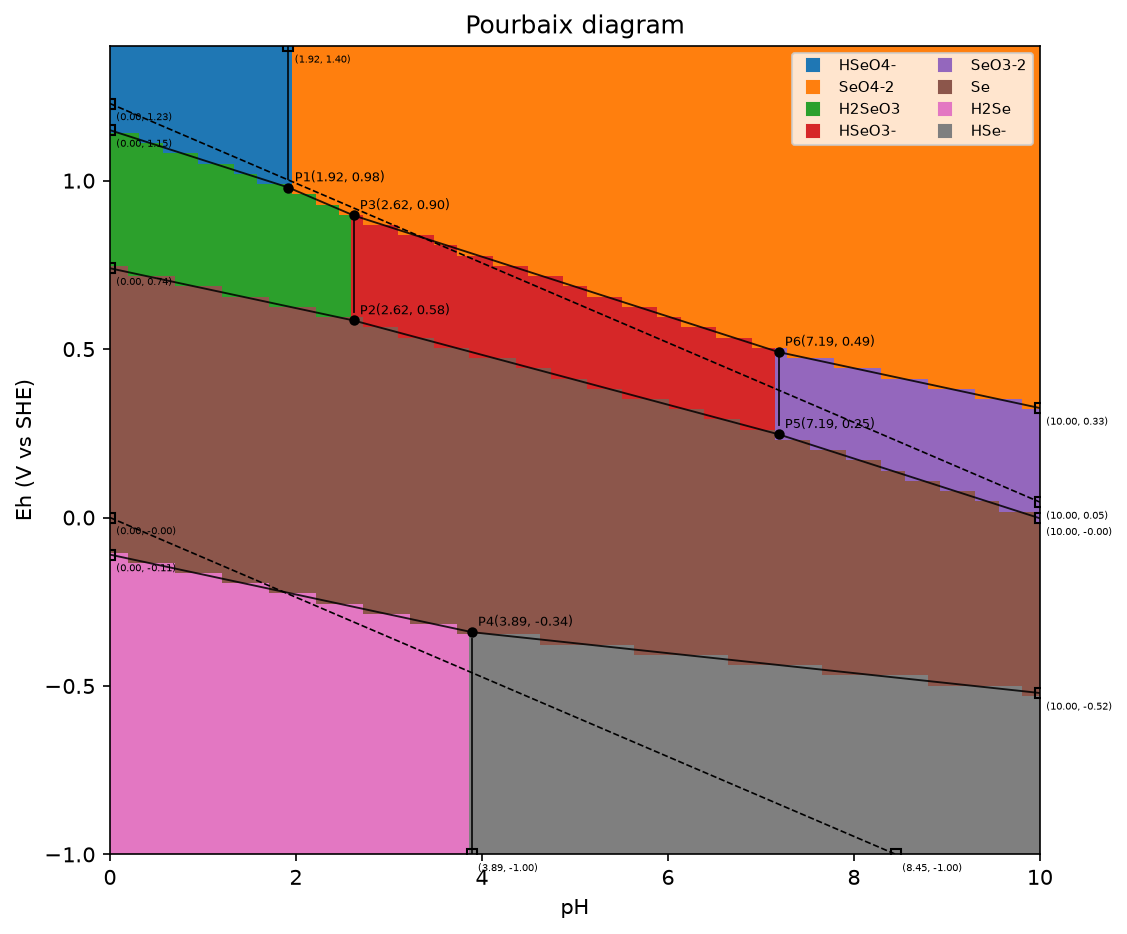
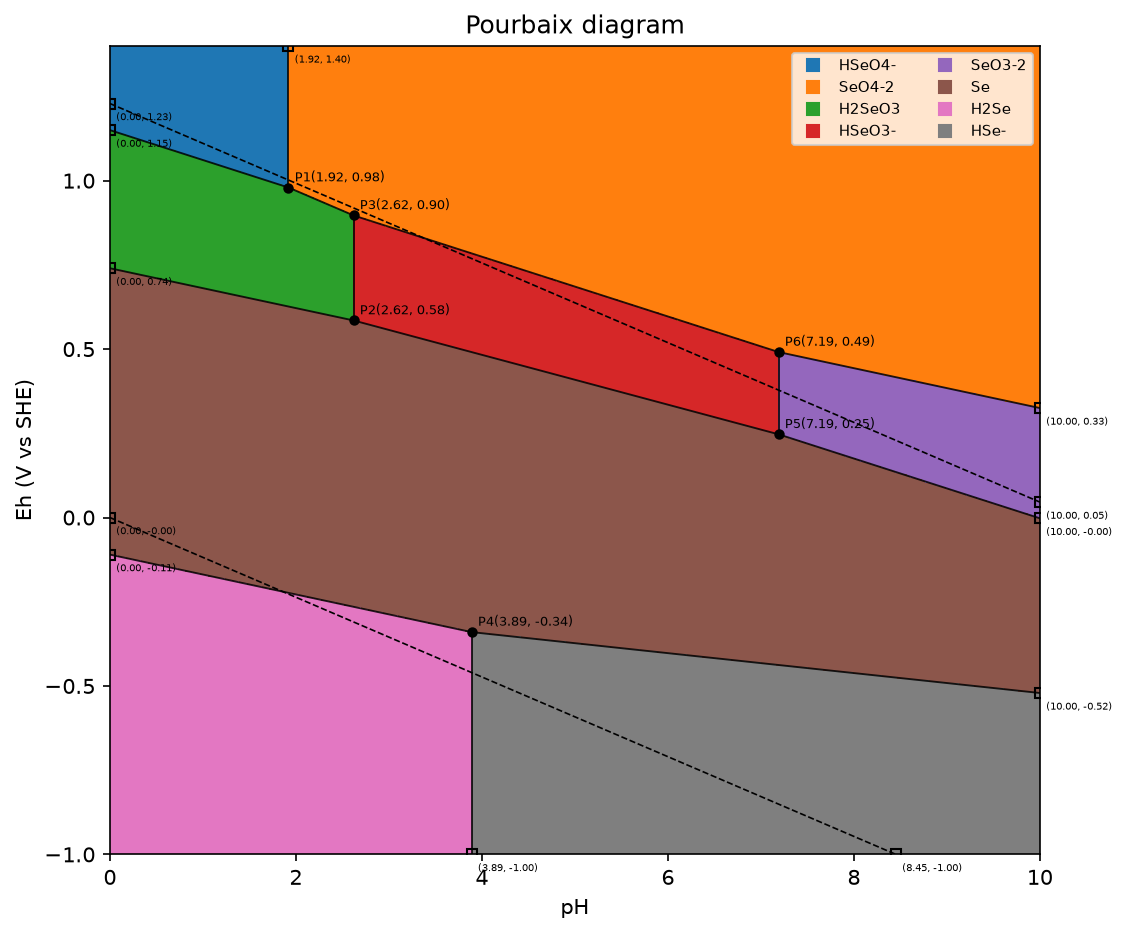
Regenerate Selenium Pourbaix README figures at 500x500 and reorder the plot styles.

diff --git a/docs/generate_readme_figures.py b/docs/generate_readme_figures.py
@@ -72,10 +72,10 @@ def write_pourbaix():
         selenium_environment(),
         pH_min=0.0,
         pH_max=10.0,
-        pH_steps=80,
+        pH_steps=500,
         Eh_min=-1.0,
         Eh_max=1.4,
-        Eh_steps=80,
+        Eh_steps=500,
         speciation_method="model",
     ).run()
     diagram.plot(
@@ -84,22 +84,22 @@ def write_pourbaix():
         show=False,
     )
     diagram.plot(
-        plot_style="labeled",
-        save=str(IMAGES / "selenium_labeled.png"),
-        show=False,
-    )
-    diagram.plot_boundaries(
-        save=str(IMAGES / "selenium_boundaries.png"),
+        plot_style="filled",
+        show_frame_intersections=True,
+        save=str(IMAGES / "selenium_frame.png"),
         show=False,
     )
     diagram.plot_predominance(
         save=str(IMAGES / "selenium_predominance.png"),
         show=False,
     )
+    diagram.plot_boundaries(
+        save=str(IMAGES / "selenium_boundaries.png"),
+        show=False,
+    )
     diagram.plot(
-        plot_style="filled",
-        show_frame_intersections=True,
-        save=str(IMAGES / "selenium_frame.png"),
+        plot_style="labeled",
+        save=str(IMAGES / "selenium_labeled.png"),
         show=False,
     )
     diagram.plot(

diff --git a/README.md b/README.md
@@ -46,20 +46,20 @@ diagram = Pourbaix(
     pH_max=10.0,
     Eh_min=-1.0,
     Eh_max=1.4,
-    pH_steps=80,
-    Eh_steps=80,
+    pH_steps=500,
+    Eh_steps=500,
 ).run()
 
 diagram.plot(plot_style="filled", save="selenium_filled.png", show=False)
-diagram.plot(plot_style="labeled", save="selenium_labeled.png", show=False)
-diagram.plot_boundaries(save="selenium_boundaries.png", show=False)
-diagram.plot_predominance(save="selenium_predominance.png", show=False)
 diagram.plot(
     plot_style="filled",
     show_frame_intersections=True,
     save="selenium_frame.png",
     show=False,
 )
+diagram.plot_predominance(save="selenium_predominance.png", show=False)
+diagram.plot_boundaries(save="selenium_boundaries.png", show=False)
+diagram.plot(plot_style="labeled", save="selenium_labeled.png", show=False)
 diagram.plot(
     plot_style="labeled",
     boundary_mode="all",
@@ -68,18 +68,18 @@ diagram.plot(
 )
 ```
 
-**Filled** (default) colors each predominance region. **Labeled** draws boundaries on white and writes the dominant species. **Boundaries** is the line-only view with a couple legend. **Predominance** is the fill without junction markers. **Frame intersections** marks where those lines meet the pH/Eh window. **All boundaries** (`boundary_mode="all"`) draws every analytic line, not only borders between neighboring regions.
+**Filled** (default) colors each predominance region. **Frame intersections** marks where dominant-region boundaries meet the pH/Eh window. **Predominance** is the fill without junction markers. **Boundaries** is the line-only view with a couple legend. **Labeled** draws boundaries on white and writes the dominant species. **All boundaries** (`boundary_mode="all"`) draws every analytic line, not only borders between neighboring regions.
 
 <p align="center">
   <img src="docs/images/selenium_filled.png" width="48%" alt="Selenium Pourbaix, filled" />
-  <img src="docs/images/selenium_labeled.png" width="48%" alt="Selenium Pourbaix, labeled" />
-</p>
-<p align="center">
-  <img src="docs/images/selenium_boundaries.png" width="48%" alt="Selenium Pourbaix, boundaries" />
-  <img src="docs/images/selenium_predominance.png" width="48%" alt="Selenium Pourbaix, predominance" />
-</p>
-<p align="center">
   <img src="docs/images/selenium_frame.png" width="48%" alt="Selenium Pourbaix with frame intersections" />
+</p>
+<p align="center">
+  <img src="docs/images/selenium_predominance.png" width="48%" alt="Selenium Pourbaix, predominance" />
+  <img src="docs/images/selenium_boundaries.png" width="48%" alt="Selenium Pourbaix, boundaries" />
+</p>
+<p align="center">
+  <img src="docs/images/selenium_labeled.png" width="48%" alt="Selenium Pourbaix, labeled" />
   <img src="docs/images/selenium_all_boundaries.png" width="48%" alt="Selenium Pourbaix, all analytic boundaries" />
 </p>
 
